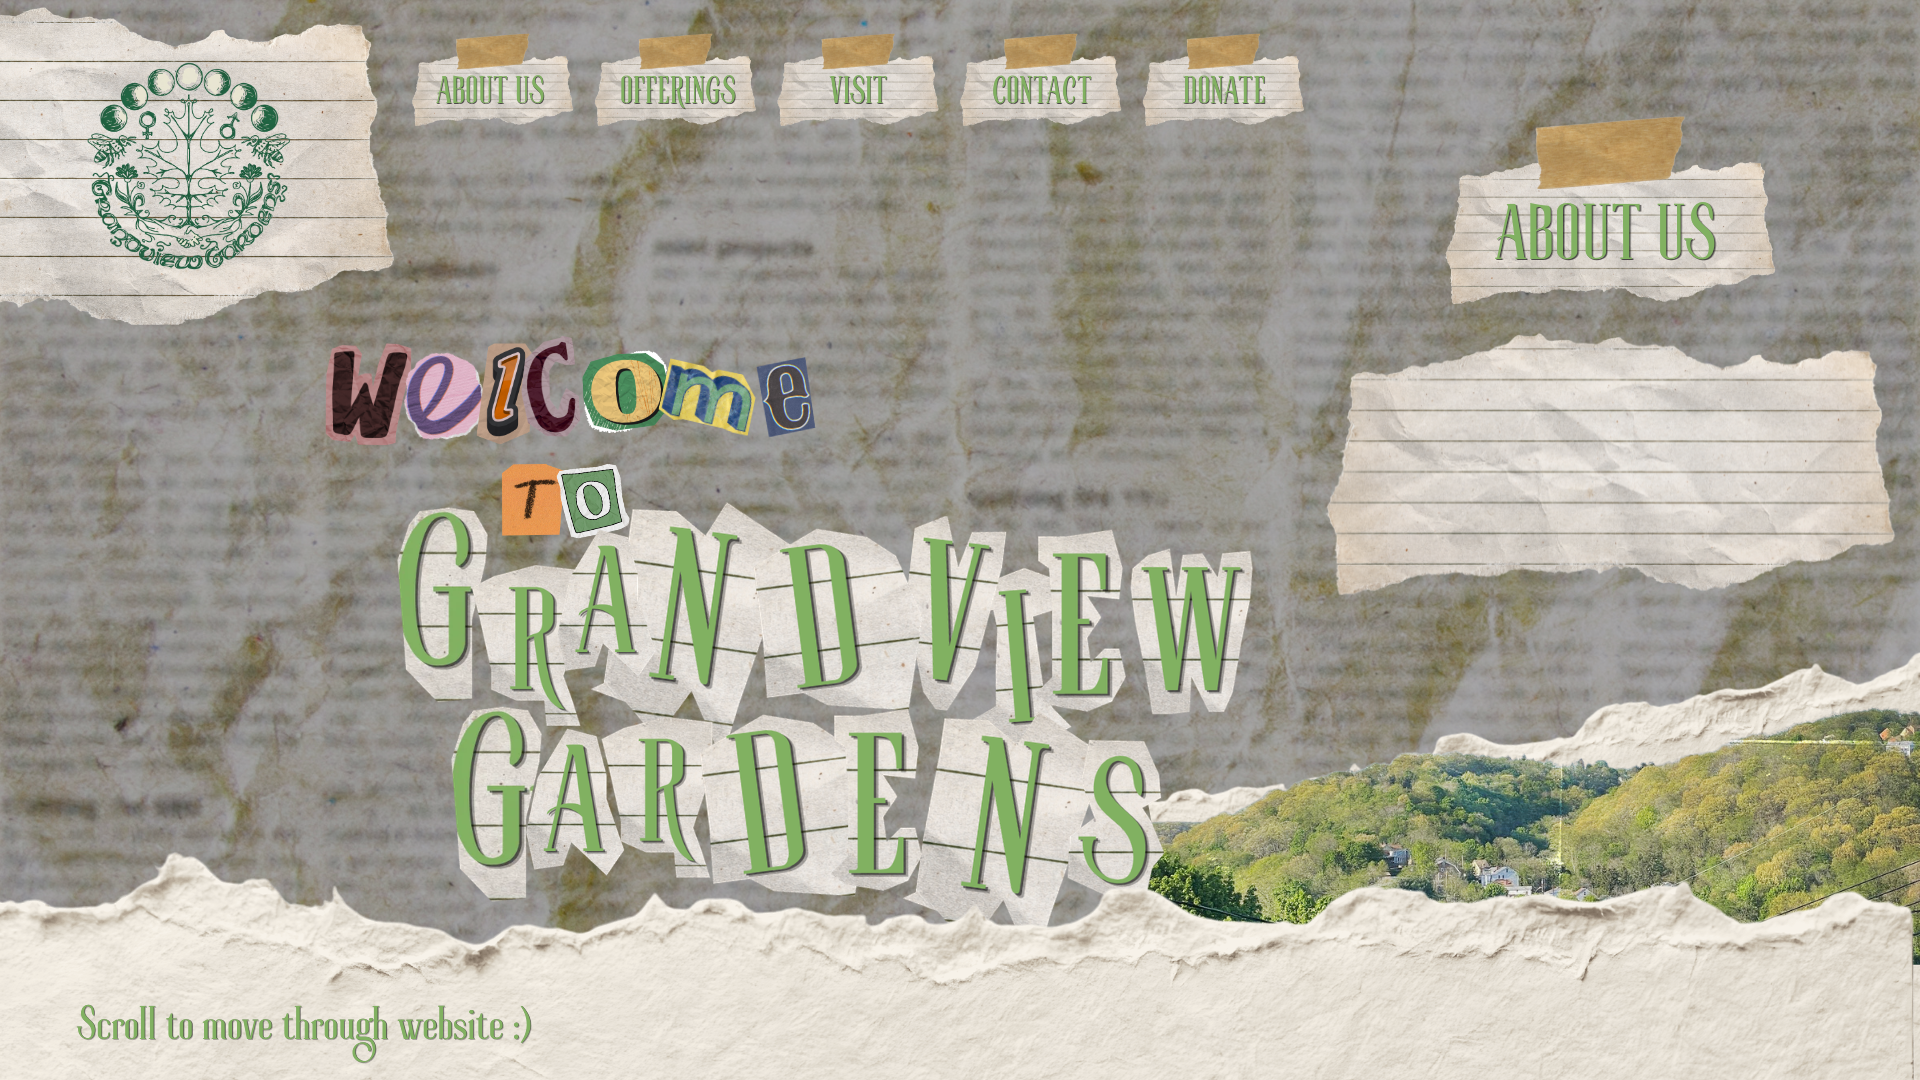
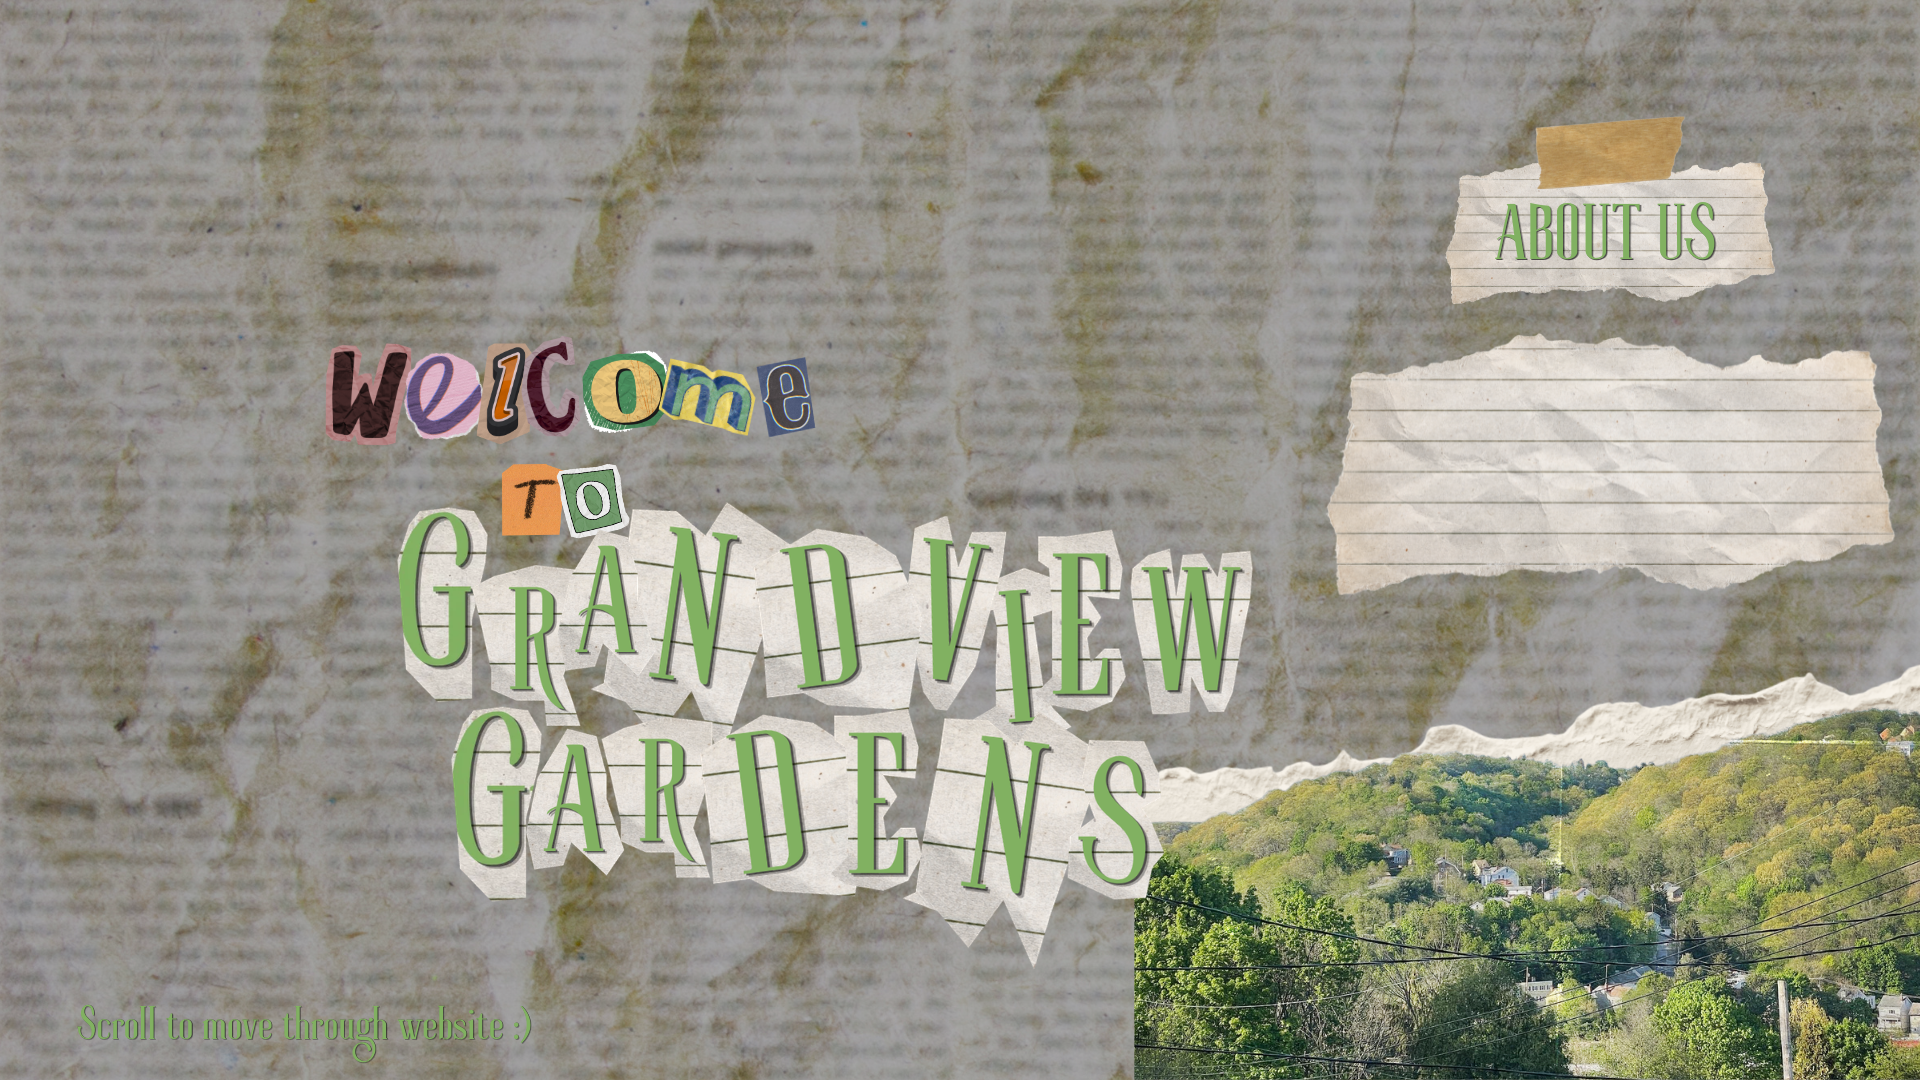
Fixing scrolling js logic, adding styling for image ratio, adding section to website

diff --git a/script.js b/script.js
@@ -1,10 +1,21 @@
 document.addEventListener("DOMContentLoaded", () => {
+    const debug = true;
+    const log = (...messages) => {
+        if (debug) console.log("[scroll-debug]", ...messages);
+    };
+
     //selecting all key elements we are working with
     const container = document.querySelector(".container");
     const scroller = document.querySelector(".scroller");
     const progressCounter = document.querySelector(".progress-counter h1");
     const progressBar = document.querySelector(".progress-bar");
     const sections = Array.from(scroller.querySelectorAll("section"));
+
+    log("initialized", {
+        container: Boolean(container),
+        scroller: Boolean(scroller),
+        sections: sections.length,
+    });
 
     const smoothFactor = 0.05;
     const touchSensitivity = 2.5;
@@ -19,6 +30,7 @@ document.addEventListener("DOMContentLoaded", () => {
 
     let isDown = false;
     let lastTouchX = 0;
+    let lastTouchY = 0;
     let touchVelocity = 0;
     let lastTouchTime = 0;
 
@@ -32,7 +44,7 @@ document.addEventListener("DOMContentLoaded", () => {
             .querySelectorAll(".clone-section")
             .forEach((clone) => clone.remove());
         const originalSections = Array.from(
-            scroller.querySelectorAll("section:not(.clone-section")
+            scroller.querySelectorAll("section:not(.clone-section)")
         );
 
         //if post clone removal, length is more than 0, set those sections as what we use for calc
@@ -45,13 +57,13 @@ document.addEventListener("DOMContentLoaded", () => {
             sequenceWidth += parseFloat(window.getComputedStyle(section).width);
         });
 
-        //cloning on both ends for smooth transition starts now (left side)
-        for (let i = -bufferSize; i=0;i++) {
-            templateSections.forEach((section, index) => {
+        // Clone complete sequences on both sides so the track can loop.
+        for (let i = 0; i < bufferSize; i++) {
+            templateSections.slice().reverse().forEach((section, index) => {
                 const clone = section.cloneNode(true);
-                clone.classList.add(".clone-section");
-                clone.setAttribute("data-clone-index",`${i}-${index}`);
-                scroller.appendChild(clone);
+                clone.classList.add("clone-section");
+                clone.setAttribute("data-clone-index", `-${i + 1}-${index}`);
+                scroller.prepend(clone);
 
             });
         };
@@ -65,20 +77,26 @@ document.addEventListener("DOMContentLoaded", () => {
         }
 
         //cloning on both ends for smooth transition starts now (right side)
-        for (let i = 1; i < bufferSize; i++) {
+        for (let i = 0; i < bufferSize; i++) {
             templateSections.forEach((section, index) => {
                 const clone = section.cloneNode(true);
-                clone.classList.add(".clone-section");
-                clone.setAttribute("data-clone-index",`${i}-${index}`);
+                clone.classList.add("clone-section");
+                clone.setAttribute("data-clone-index", `${i + 1}-${index}`);
                 scroller.appendChild(clone);
 
             });
         };
 
-        //scroller.style.width = `${sequenceWidth * (1 + bufferSize * 2)})px`;
+        scroller.style.width = `${sequenceWidth * (1 + bufferSize * 2)}px`;
         targetScrollX = sequenceWidth * bufferSize;
         currentScrollX = targetScrollX;
-        scroller.style.transform = `translateX(-${currentScrollX}px)`
+        scroller.style.transform = `translateX(-${currentScrollX}px)`;
+
+        log("setup complete", {
+            sequenceWidth,
+            totalSections: scroller.querySelectorAll("section").length,
+            startOffset: currentScrollX,
+        });
 
         return sequenceWidth;
     };
@@ -112,11 +130,9 @@ document.addEventListener("DOMContentLoaded", () => {
         //position relative to base value 
         const currentPosition = (currentScrollX - basePosition) % sequenceWidth;
 
-        let percentage = (currentPosition / basePosition) * 100;
-
-        if (percentage < 0) {
-            percentage = 100 + percentage;
-        }
+        const normalizedPosition =
+            (currentPosition + sequenceWidth) % sequenceWidth;
+        const percentage = (normalizedPosition / sequenceWidth) * 100;
 
         const isWrapping =
         (lastPercentage > 80 && percentage < 20) ||
@@ -131,12 +147,14 @@ document.addEventListener("DOMContentLoaded", () => {
             progressBar.style.transform = `scaleX(${currentProgressScale})`
         }
 
+        lastPercentage = percentage;
+
     };
 
     //larpig is gradual move towards target 
     const animate = (sequenceWidth, forceProgressReset = false) => {
         currentScrollX = larp(currentScrollX, targetScrollX, smoothFactor);
-        scroller.style.transform = `transateX(-${currentScrollX}px)`;
+        scroller.style.transform = `translateX(-${currentScrollX}px)`;
 
         updateProgress(sequenceWidth,forceProgressReset);
 
@@ -147,7 +165,7 @@ document.addEventListener("DOMContentLoaded", () => {
                 smoothFactor
             );
 
-            progressBar.style.translate = `scaleX(${currentProgressScale})`
+            progressBar.style.transform = `scaleX(${currentProgressScale})`
         }
 
         if(Math.abs(targetScrollX - currentScrollX) < 0.01) {
@@ -166,21 +184,33 @@ document.addEventListener("DOMContentLoaded", () => {
         e.preventDefault();
         targetScrollX += e.deltaY;
 
+        log("wheel", {
+            deltaY: e.deltaY,
+            targetScrollX,
+            currentScrollX,
+        });
+
         const needReset = checkBoundaryAndReset(sequenceWidth);
 
         if (!isAnimating) {
             isAnimating = true;
             requestAnimationFrame(()=> animate(sequenceWidth, needReset));
         }
-    }, 
-    {passive: false;}
+    },
+    { passive: false }
     );
 
     container.addEventListener("touchstart", (e) => {
         isDown = true;
         lastTouchX= e.touches[0].clientX;
+        lastTouchY = e.touches[0].clientY;
         lastTouchTime = Date.now();
         targetScrollX = currentScrollX;
+        log("touchstart", {
+            isDown,
+            lastTouchX,
+            targetScrollX,
+        });
     });
 
     container.addEventListener("touchmove", (e) => {
@@ -188,7 +218,13 @@ document.addEventListener("DOMContentLoaded", () => {
         e.preventDefault();
 
         const currentTouchX = e.touches[0].clientX;
-        const touchDelta = lastTouchX - currentTouchX;
+        const currentTouchY = e.touches[0].clientY;
+        const horizontalDelta = lastTouchX - currentTouchX;
+        const verticalDelta = lastTouchY - currentTouchY;
+        const touchDelta =
+            Math.abs(horizontalDelta) > Math.abs(verticalDelta)
+                ? horizontalDelta
+                : verticalDelta;
 
         targetScrollX += touchDelta * touchSensitivity;
 
@@ -199,9 +235,20 @@ document.addEventListener("DOMContentLoaded", () => {
         }
 
         lastTouchX = currentTouchX;
+        lastTouchY = currentTouchY;
         lastTouchTime = currentTime;
 
         const needReset = checkBoundaryAndReset(sequenceWidth);
+
+        log("touch", {
+            isDown,
+            touchDelta,
+            timeDelta,
+            targetScrollX,
+            currentTouchX,
+            touchVelocity,
+            needReset
+        });
 
         if (!isAnimating) {
             isAnimating = true;
@@ -211,12 +258,16 @@ document.addEventListener("DOMContentLoaded", () => {
 
     container.addEventListener("touchend", () => {
         isDown = false;
+        log("touchend", {
+            isDown,
+        });
+        
 
         if(Math.abs(touchVelocity) > 0.01) {
             targetScrollX += touchVelocity * 20;
 
             const decayVelocity = () => {
-                touchVelocity += 0.95;
+                touchVelocity *= 0.95;
 
                 if(Math.abs(touchVelocity) > 0.01) {
                     targetScrollX += touchVelocity;
@@ -232,6 +283,7 @@ document.addEventListener("DOMContentLoaded", () => {
 
             requestAnimationFrame(decayVelocity);
         } 
-    });
+    },{ passive: false }
+    );
 });
 

diff --git a/style.css b/style.css
@@ -5,18 +5,12 @@
 }
 
 h1 {
-    font-family: "malanga";
+    font-family: 'Courier New', Courier, monospace;
     font-size: 10vw;
     font-weight: lighter;
     text-transform: uppercase;
     line-height: 0.8;
     padding-top: 0.2em;
-}
-
-img {
-    width: 100%;
-    height: 100%;
-    object-fit: cover;
 }
 
 .container {
@@ -50,7 +44,7 @@ img {
 
 .scroller {
     position: relative;
-    width: 200vw; /*recalculate based on # of sections in JS later*/
+    width: max-content;/*recalculate based on # of sections in JS later*/
     height: 100svh;
     display: flex;
     will-change: transform;
@@ -65,3 +59,20 @@ section {
     align-items: center;
 }
 
+section img {
+    display: block;
+    width: 100%;
+    height: 100%;
+    object-fit: cover;
+}
+
+body {
+    overflow: hidden;
+}
+/*mobile responsiveness*/
+
+/* @media (max-width: 768px) {
+    h1 {
+        font-size: 15vw;
+    }
+} */

diff --git a/index.html b/index.html
@@ -2,7 +2,7 @@
 <html lang="en">
     <head>
         <meta charset="UTF-8" />
-        <meta name="viewport" content="width-=device-width, initial-scale=1.0" />
+        <meta name="viewport" content="width=device-width, initial-scale=1.0" />
         <title>Grandview Gardens</title>
         <link rel="stylesheet" href="style.css" />
     </head>
@@ -24,10 +24,13 @@
                 <section class="bg3-img">
                     <img src="assets/Infinite Scroll Background/3.png" alt="" />
                 </section>
+                <section class="bg4-img">
+                    <img src="assets/Infinite Scroll Background/4.png" alt="" />
+                </section>
             </div>
         </div>
         <script src="script.js"></script>
     </body>
 </html>
 
-</html)
+</html>
